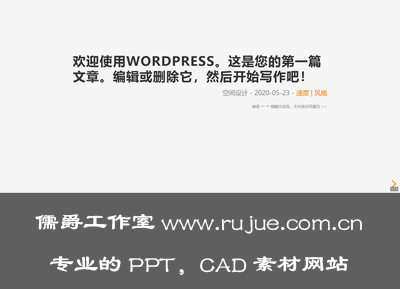
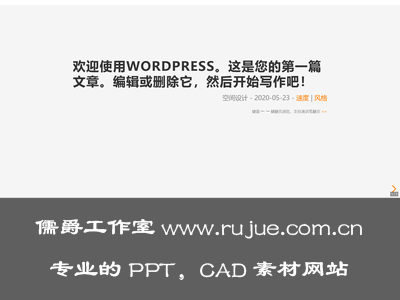
sider

diff --git a/style.css b/style.css
@@ -55,7 +55,17 @@ article .article .list-title-cate{
 .singlebox>section{margin-bottom:0.75rem;}
 .single .right-sider,.page .right-sider{width:100px;}
 .singlebox ul{list-style: none;counter-reset:count;}
-.singlebox>ul li:before{content:'\27A7';color:#fe7e00;margin-right: 0.3rem;}
+.singlebox>ul li::before{content:'\27A7';color:#fe7e00;margin-right: 0.3rem;}
+
+/*侧栏*/
+#right-sider{text-align:center;border-left: 1px dashed rgba(0,0,0,.2);}
+#right-sider #respond{margin-top:20px}
+#right-sider aside{margin-bottom:10px;}
+#right-sider aside ul{list-style:none;padding-left:0}
+.widget-title{font-size:1.3em;font-family:'KaiTi','LiSu','SimHei';}
+.widget-title::before{content:'\2014\2014';color:rgba(0,0,0,.1);margin-right: 0.7rem;}
+.widget-title::after{content:'\2014\2014';color:rgba(0,0,0,.1);margin-left: 0.7rem;}
+
 
 /*分页*/
 .pagination{display:table;margin:0 auto}

diff --git a/other/my.php b/other/my.php
@@ -1,0 +1,22 @@
+<?php 
+/**
+ * 我的私有域
+ *
+ * @author 910109610@qq.com
+ * @since 2021-11-20
+ */?>
+<div class="text-center mb-3">
+   <img class="mb-2" src="<?php bloginfo('template_url')?>/img/qrcode.jpg" alt="微信公众号" width="160px">
+   <h2><?php bloginfo('name');?></h2>
+   <p>扫码关注微信公众号
+   <br>获取 <strong><a href="//www.rujue.com.cn/category/design-material/ppt" title="PPT" target="_blank">PPT</a>、<a href="//www.rujue.com.cn/category/design-material/cad" title="CAD" target="_blank">CAD</a></strong> 相关素材</p>
+   <hr>
+   <p>
+      管理员：解先生<br>
+      收费做CAD组件、PPT优化<br>
+      服务对象：<abbr title="家装设计，全屋定制设计" class="initialism">室内设计师</abbr><br>
+      关注公众号回复"交流"联系我<br>
+      PPT使用请阅读《<a href="//www.rujue.com.cn/pptshuoming" target="_blank" title="操作手册"><strong>操作手册</strong></a>》<br>
+      友情联系在 <a href="//www.rujue.com.cn/message" target="_blank" title="留言板"><strong>留言板</strong></a> 里申请<br>
+   </p>
+</div>

diff --git a/index.php b/index.php
@@ -13,10 +13,10 @@ get_header();?>
     <?php if(!wp_is_mobile()):?>
       <div class="col-xl-2 d-none d-xl-block" id="right-sider">
         <div class="theiaStickySidebar"><!-- 侧栏滚动 -->
-          <?php //dynamic_sidebar(__('right-sider','rujuedesign'));右侧栏?>
-          <div class="text-center mb-3">
-            <img src="<?php bloginfo('template_url')?>/img/qrcode.jpg" alt="<?php _e('微信公众号','rujuedesign')?>" width="160px">
-          </div>
+          <?php 
+            get_template_part('other/my');//我是私有域
+            dynamic_sidebar(__('right-sider','rujuedesign'));//右侧栏
+          ?>
           <?php 
             query_posts('pagename=message');
             while(have_posts()){

diff --git a/header.php b/header.php
@@ -6,7 +6,7 @@
 <?php wp_head(); ?>
 
 <link rel="stylesheet" href="<?php _echo_CDN_URL('bootstrap.min.css','css')?>">
-<link rel="stylesheet" href="<?php bloginfo('template_url')?>/style.css?v=0.1119">
+<link rel="stylesheet" href="<?php bloginfo('template_url')?>/style.css?v=0.1120">
 <link rel="shortcut icon" href="<?php bloginfo('template_url'); ?>/favicon.ico" type="image/x-icon"/>
 <!-- https://icons.bootcss.com/图标，暂时用不到
  <link rel="stylesheet" href="//cdn.jsdelivr.net/npm/bootstrap-icons@1.7.0/font/bootstrap-icons.css"> -->
